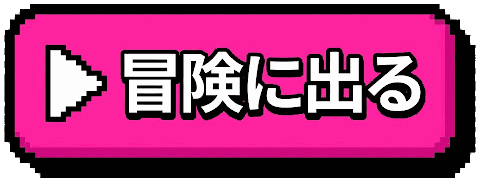
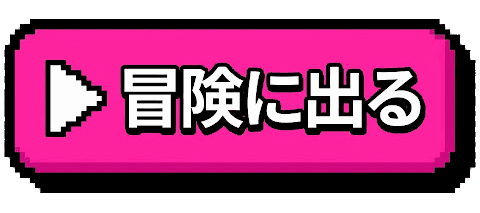
ホームのボタンを同サイズ化／バトルログ廃止でガード・休憩を拡大
- 冒険に出る／遊び方を見るのボタン画像を同一寸法(480x213)に正規化し、
  ホームで同じ大きさ・縦横比で表示されるようにした
- バトル画面下部の COMBAT_LOG バーを廃止
- 空いたスペースでガード／休憩ボタンを拡大（高さ・アイコン・文字を大きく）

Claude-Session: https://claude.ai/code/session_01T3h1eCaHq8qFAsCYt2XXXQ

diff --git a/src/style.css b/src/style.css
@@ -2218,22 +2218,22 @@ body.theme-nb {
 /* 連携可能カードの強調（既存 combo-ready を踏襲） */
 .bt-skills .sk-card.combo-ready { border-color: #df0b81; box-shadow: 5px 5px 0 #df0b81; }
 
-/* ガード／休憩を攻撃行の下に横並び（2列） */
-.bt-actions { display: grid; grid-template-columns: 1fr 1fr; gap: 8px; margin-top: 8px; }
+/* ガード／休憩を攻撃行の下に横並び（2列）。バトルログを廃したぶん大きく */
+.bt-actions { display: grid; grid-template-columns: 1fr 1fr; gap: 10px; margin-top: 10px; }
 .bt-act {
-  display: flex; flex-direction: row; align-items: center; justify-content: center; gap: 8px;
-  min-height: 52px; padding: 8px;
+  display: flex; flex-direction: row; align-items: center; justify-content: center; gap: 12px;
+  min-height: 84px; padding: 12px;
   background: #ffffff;
-  border: 2.5px solid #1c1b1b;
-  box-shadow: 4px 4px 0 #1c1b1b;
+  border: 3px solid #1c1b1b;
+  box-shadow: 5px 5px 0 #1c1b1b;
   color: #1c1b1b;
   cursor: pointer;
   transition: transform 0.05s, box-shadow 0.05s;
 }
 .bt-act:active, .bt-act.btn-press { transform: translate(2px, 2px); box-shadow: 2px 2px 0 #1c1b1b; }
 .bt-act-ico { display: flex; align-items: center; justify-content: center; }
-.bt-act-ico canvas { image-rendering: pixelated; height: 28px; width: auto; }
-.bt-act-lbl { font-family: "Space Mono", "Hiragino Kaku Gothic ProN", ui-monospace, monospace; font-size: 12px; font-weight: 900; letter-spacing: 0.5px; }
+.bt-act-ico canvas { image-rendering: pixelated; height: 42px; width: auto; }
+.bt-act-lbl { font-family: "Space Mono", "Hiragino Kaku Gothic ProN", ui-monospace, monospace; font-size: 17px; font-weight: 900; letter-spacing: 0.5px; }
 .bt-guard { background: #d8ecff; }
 .bt-rest2 { background: #d8f7ea; }
 .bt-guard.guard-now {

diff --git a/src/main.ts b/src/main.ts
@@ -46,8 +46,6 @@ let battleCards: {
 let guardCard: HTMLButtonElement | null = null;
 /** 戦闘中の休憩ボタン（敵の予兆中は無効化する） */
 let restCard: HTMLButtonElement | null = null;
-/** 戦闘中の戦況ログバー（COMBAT_LOG） */
-let battleLog: HTMLElement | null = null;
 /** 戦闘中のHP/AP（セグメント）バー。毎フレーム更新する */
 let battleHud: {
   hpLabel: HTMLElement; hpSegs: HTMLElement[]; crit: HTMLElement; hpFill: HTMLElement;
@@ -220,7 +218,6 @@ function buildControls(): void {
   battleHud = null;
   guardCard = null;
   restCard = null;
-  battleLog = null;
   const screenChanged = renderedScreen !== game.screen;
   renderedScreen = game.screen;
   // バトル枠（canvas）は戦闘中のみ表示。それ以外（リザルト含む）はDOMで構成
@@ -1482,13 +1479,6 @@ function buildBattle(): void {
   actRow.appendChild(rbtn);
   controls.appendChild(actRow);
 
-  // ===== COMBAT_LOG バー =====
-  const log = document.createElement("div");
-  log.className = "bt-log";
-  log.innerHTML = `<span class="bt-log-title">COMBAT_LOG_V2</span><span class="bt-log-line"></span>`;
-  controls.appendChild(log);
-  battleLog = log.querySelector(".bt-log-line") as HTMLElement;
-
   updateWeaponButtons();
 }
 
@@ -1569,11 +1559,6 @@ function updateWeaponButtons(): void {
   // GUARD：敵の予兆中は強調。休憩は予兆中は無効
   if (guardCard) guardCard.classList.toggle("guard-now", telegraph);
   if (restCard) restCard.classList.toggle("disabled", telegraph);
-  // COMBAT_LOG：直近の味方ログを表示
-  if (battleLog) {
-    const logs = b.floats.filter((fl) => fl.anchor === "player");
-    battleLog.textContent = logs.length ? logs[logs.length - 1].text : "READY";
-  }
 }
 
 function buildResult(): void {